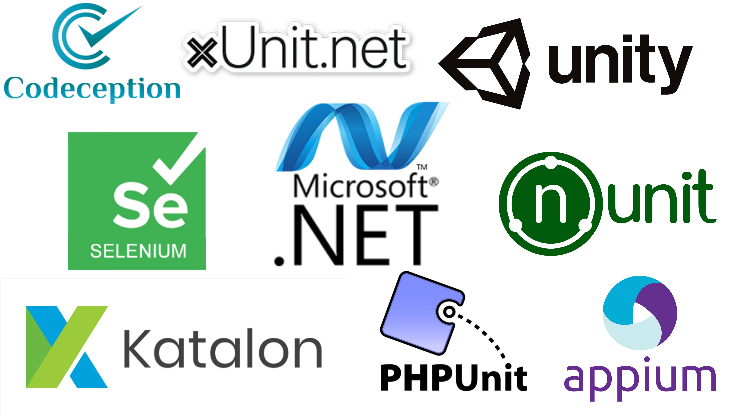
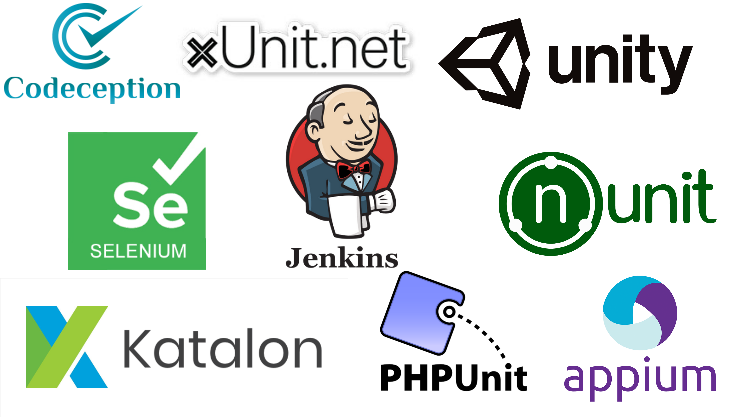
Завершена работа по изменению сайта

Changed region(s): [[0.3735, 0.1857, 0.6225, 0.65]]

diff --git a/index.html b/index.html
@@ -31,8 +31,7 @@
 			<div id="title">Somov Studio</div>
 			<div id="logo"><img src="./img/logo.png" alt="logo" class="logo-rotate"></div>
 			<div id="info">
-				Тестирование программного обеспечения любой сложности.
-				<br>Автоматизированное тестирование.
+				Автоматизированное тестирование программного обеспечения любой сложности.
 			</div>
 		</div>
 	</header>
@@ -44,12 +43,14 @@
 			<div id="about">
 				<h2 class="line">О компании</h2>
 				<p>
-					Наша компания занимается оказанием услуг в облати тестирования программного обеспечения любой сложности. В работе применяется автоматизированное и ручное тестирование. Тестирование 2D и 3D приложений разработанных под мобильные устройства iOS и Android, а так же desktop и browser версии.
+					Наша компания занимается оказанием услуг в облати тестирования программного обеспечения любой сложности. Мы занимаемся разработкой автоматизированного тестирования: 2D и 3D приложений разработанных под мобильные устройства iOS и Android, Web приложений, Native приложений и desktop приложений.
 					<br><br>
 					Разработка и развертывание средств автоматизированного тестирования.
 					<br>Основные подходы к автоматизации тестирования: 
 					<br>Тестирование на уровне кода (модульное тестирование) и тестирование пользовательского интерфейса (в частности, GUI-тестирование).
 					<br>Имитация действий пользователя - функциональное тестирование (с помощью специальных тестовых фреймворков.)
+					<br><br>
+					Автоматизация процессов тестирования является неотъемлемой частью разработки любого программного обеспечения. Автоматизация позволяет сократить время и вероятность пропущенных ошибок в регресс-тестировании.
 				</p>
 				<div class="button-more-right">
 					<a href="about.html">ПОДРОБНЕЕ >></a>
@@ -78,19 +79,20 @@
 				<ul class="services-list">
 					<li>Тестирование баз данных</li>
 					<li>Тестирование Web приложений</li>
-					<li>Тестирование корпоративных решений</li>
+					<li>Тестирование desktop приложений</li>
 					<li>Тестирование клиент-серверных приложений</li>
 					<li>Тестирование мобильных 2D/3D приложений под iOS и Android</li>
 				</ul>
 				<p>Разработка и сопровождение автоматизированного тестирования:</p>
 				<ul class="services-list">
-					<li>Автоматизированное тестирование Web-приложения</li>
-					<li>Автоматизированное тестирование Native-приложений</li>
-					<li>Автоматизированное тестирование Desktop-приложений</li>
+					<li>Автоматизированное тестирование Web приложения</li>
+					<li>Автоматизированное тестирование Native приложений</li>
+					<li>Автоматизированное тестирование Desktop приложений</li>
+					<li>Автоматизированное тестирование Unity3D приложений</li>
 					<li>Выполнение модульное тестирование на уровне программного кода</li>
 				</ul>
 				<br>
-				<p style="font-size: small;">* Более подробная информация о расценках и сроках выполнения работ с мотрите в разделе "подробнее"</p>
+				<p style="font-size: small;">* Более подробная информация о расценках и сроках выполнения работ смотрите в разделе "подробнее"</p>
 				<div class="button-more-right">
 					<a href="services.html">ПОДРОБНЕЕ >></a>
 				</div>
@@ -105,15 +107,23 @@
 			<div id="technology">
 				<h2 class="line">Технологии</h2>
 				<p>
-				В тестировании используются следующие технологии автоматизации: Codeception, Selenium, Katalon Studio, Unity Test Runner, Appium.
-				<br><br>
-				Выполнение модульного тестирования средствами: XUnit, NUnit, JUnit, PHPUnit.
-				</p>
-				<br>
-				<p>
-				В разработке клиент-серверного программного обеспечения используется .NET Framework одну из самых передовых технологии от корпорации Microsoft, и система управления реляционными базами данных Microsoft SQL Server.
-				<br><br>
-				В разработке web-приложений используется технология Apache, PHP и система управления реляционными базами данных MySQL.
+					Автоматизированное тестирование Web приложений выполняется технологией <a href="https://www.seleniumhq.org/" target="_blank">Selenium</a>. 
+					Разработка автоматизированных тестов осуществляется с помощью фреймворка <a href="https://codeception.com" target="_blank">Codeception</a> или <a href="https://www.katalon.com/" target="_blank">Katalon Studio</a>.
+					<br><br>
+					Автоматизированное тестирование Native приложений выполняется технологией <a href="http://appium.io/" target="_blank">Appium</a>. 
+					Разработка автоматизированных тестов осуществляется с помощью <a href="https://www.katalon.com/" target="_blank">Katalon Studio</a>.
+					<br><br>
+					Автоматизированное тестирование Unity3D приложений разрабатывается и выполняется непосредственно в среде <a href="https://unity.com/ru" target="_blank">Unity</a> с помощью встроенной технологии Test Runner.
+					<br><br>
+					Автоматизированное тестирование Desktop приложений выполняется с помощью <a href="https://github.com/Microsoft/WinAppDriver" target="_blank">WinAppDriver</a>.
+					<br><br>
+					Выполнение модульного тестирования средствами: 
+					<a href="https://xunit.net/" target="_blank">XUnit</a>, 
+					<a href="https://nunit.org/" target="_blank">NUnit</a>, 
+					<a href="https://junit.org/junit5/" target="_blank">JUnit</a>, 
+					<a href="https://phpunit.de/" target="_blank">PHPUnit</a>.
+					<br><br>
+					Для непрерывной работы автоматизированных тестов используется программная система <a href="https://jenkins.io/" target="_blank">Jenkins</a>
 				</p>
 				<div class="button-more-right">
 					<a href="technology.html">ПОДРОБНЕЕ >></a>
@@ -142,9 +152,11 @@
 				В данном разделе вы можете скачать совершенно бесплатно разработанное нами следующее программное обеспечение:
 				</p>
 				<ul class="services-list">
-					<li>FastADB - программа позволяет работать с Android Debug Bridge более удобно и быстрее (необходимый инструмент при тестировании android приложений)</li><br>
-					<li>Json File Editor - программа предназначена для редактирования json файлов.</li><br>
+					<li>FastADB - программа позволяет работать с Android Debug Bridge более удобно и быстрее (необходимый инструмент при тестировании android приложений)</li>
+					<li>Json File Editor - программа предназначена для редактирования json файлов.</li>
 					<li>Admin Database Framework - фреймворк (платформа) позволяет создать администратор баз данных для Веб-приложения на основе Apache, MySQL</li>
+					<li>Агрегатор - программа поможет в работе над большим количеством прайс-листов с дальнейшим составлением плана закупок, формированием и отправкой заказов поставщикам</li>
+					<li>Rapid Sales - небольшая бухгалтерская программа предназначена для учета продаж товаров со склада</li>
 				</ul>
 				<br>
 				<p style="font-size: small;">* Данные программные средства находятся в открытом доступе по лицензии GNU и вы можете с ними ознакомиться пройдя в раздел "подробнее"</p>
@@ -190,7 +202,6 @@
 					<li><a href="index.html#services">Услуги</a></li>
 					<li><a href="index.html#technology">Технологии</a></li>
 					<li><a href="index.html#download">Скачать</a></li>
-					<li><a href="index.html#developments">Разработки</a></li>
 					<li><a href="index.html#contacts">Контакты</a></li>
 				</ul>
 			</div>

diff --git a/download.html b/download.html
@@ -22,7 +22,6 @@
 				<li><a href="index.html#services">Услуги</a></li>
 				<li><a href="index.html#technology">Технологии</a></li>
 				<li><a href="index.html#download">Скачать</a></li>
-				<li><a href="index.html#developments">Разработки</a></li>
 				<li><a href="index.html#contacts">Контакты</a></li>
 			</ul>
 		</div>
@@ -69,11 +68,6 @@
 			</p>
 			<br>
 			Архив приложения "FastADB"
-			<!--
-			<form action="./download/utilities/fastadb/FastADB-v.2.0.zip">
-				<input type="submit" value="Скачать" class="button">
-			</form>
-			-->
 			<form action="https://github.com/SomovStudio/FastADB2/archive/2.0.zip">
 				<input type="submit" value="Скачать" class="button">
 			</form>
@@ -162,6 +156,86 @@
 
 	<div class="section-clear"></div>
 
+	<section class="section-white"><br><br>
+		<div class="section-content-left">
+			<h2 class="line">Программа: "Агрегатор"</h2>
+			<div class="content-image-soft">
+				<img src="./img/aggregator.png">
+			</div>
+			<p style="font-size: small;">
+				Системные требования: Windows, Microsoft SQL Server (если приложение использует серверную базу данных)
+			</p>
+		</div>
+		<div class="section-content-right">
+			<p>
+			Программное решение "Агрегатор" поможет вам в работе над большим количеством прайс-листов с дальнейшим составлением плана закупок, формированием и отправкой заказов поставщикам.
+			</p>
+			<br>
+			Приложениию "Агрегатор" на GitHub
+			<form action="https://github.com/SomovStudio/Aggregator" target="_blank">
+				<input type="submit" value="Перейти" class="button">
+			</form>
+			<br>
+			Установщик программы "Агрегатор"
+			<form action="./download/aggregator/Setup.zip">
+				<input type="submit" value="Скачать" class="button">
+			</form>
+			Архив программы "Агрегатор"
+			<form action="./download/aggregator/Aggregator.zip">
+				<input type="submit" value="Скачать" class="button">
+			</form>
+			Руководство к программе "Агрегатор" в формате PDF
+			<form action="./download/aggregator/help.pdf">
+				<input type="submit" value="Скачать" class="button">
+			</form>
+			Руководство к программе "Агрегатор" в формате CHM
+			<form action="./download/aggregator/help.chm">
+				<input type="submit" value="Скачать" class="button">
+			</form>	
+			<br>
+			<p>Видеоуроки с подробным объяснением о том как работать с данной программой смотрите в разделе видеоуроки.</p>
+			<form action="aggregator.html">
+				<input type="submit" value="Видеоуроки" class="button">
+			</form>
+		</div>	
+	</section>
+
+	<div class="section-clear"></div>
+
+	<section class="section-white">
+		<br><br>
+		<div class="section-content-left">
+			<h2 class="line">Программа: "Rapid Sales"</h2>
+			<div class="content-image-soft">
+				<img src="./img/rapid.png">
+				
+			</div>
+			<p style="font-size: small;">
+				Системные требования: 
+				Windows, Microsoft SQL Server
+			</p>
+		</div>
+		<div class="section-content-right">
+			<p>
+				Бухгалтерская программа "Rapid Sales" предназначена для учета продаж товаров со склада. 
+				Учет ведется по нескольким направлениям: бухгалтерский учет и складской учет.
+				Так же в программе доступно формирование отчетов, таких как остатки ТМЦ, оборотно сальдовая ведомость по счету, по контрагентам, по торговым представителям.
+			</p>
+			<br>
+			Приложениию "Rapid Sales" на GitHub
+			<form action="https://github.com/SomovStudio/RapidSales" target="_blank">
+				<input type="submit" value="Перейти" class="button">
+			</form>
+			<br>
+			Архив приложения "Rapid Sales"
+			<form action="https://github.com/SomovStudio/RapidSales/archive/1.0.zip">
+				<input type="submit" value="Скачать" class="button">
+			</form>
+		</div>
+	</section>
+
+	<div class="section-clear"></div>
+
 	<!-- FOOTER -->
 	<footer>
 		<div class="footer-social">
@@ -192,7 +266,7 @@
 		<section id="information">
 			<div id="information_footer">
 				<h2>Деятельность</h2>
-				<p>Наша компания занимается тестированием и разработкой програмного обеспечания, а так же проектированием баз данных и разработкой программных средств ориентированных на упрощенную работу с данными.</p>
+				<p>Разработка автоматизированного тестирования программного обеспечения любой сложности.</p>
 			</div>
 			<div id="contacts_footer">
 				<h2>Контакты</h2>

diff --git a/technology.html b/technology.html
@@ -22,7 +22,6 @@
 				<li><a href="index.html#services">Услуги</a></li>
 				<li><a href="index.html#technology">Технологии</a></li>
 				<li><a href="index.html#download">Скачать</a></li>
-				<li><a href="index.html#developments">Разработки</a></li>
 				<li><a href="index.html#contacts">Контакты</a></li>
 			</ul>
 		</div>
@@ -44,8 +43,25 @@
 		<div id="description">
 			<h2 class="line">Технологии</h2>
 			<p>
-				В Тестировании и разработке программного обеспечения мы используем самые передовых технологии.
-			</p>
+					Автоматизированное тестирование Web приложений выполняется технологией <a href="https://www.seleniumhq.org/" target="_blank">Selenium</a>. 
+					Разработка автоматизированных тестов осуществляется с помощью фреймворка <a href="https://codeception.com" target="_blank">Codeception</a> или <a href="https://www.katalon.com/" target="_blank">Katalon Studio</a>.
+					<br>
+					Автоматизированное тестирование Native приложений выполняется технологией <a href="http://appium.io/" target="_blank">Appium</a>. 
+					Разработка автоматизированных тестов осуществляется с помощью <a href="https://www.katalon.com/" target="_blank">Katalon Studio</a>.
+					<br>
+					Автоматизированное тестирование Unity3D приложений разрабатывается и выполняется непосредственно в среде <a href="https://unity.com/ru" target="_blank">Unity</a> с помощью встроенной технологии Test Runner.
+					<br>
+					Автоматизированное тестирование Desktop приложений выполняется с помощью <a href="https://github.com/Microsoft/WinAppDriver" target="_blank">WinAppDriver</a>.
+					<br>
+					Выполнение модульного тестирования средствами: 
+					<a href="https://xunit.net/" target="_blank">XUnit</a>, 
+					<a href="https://nunit.org/" target="_blank">NUnit</a>, 
+					<a href="https://junit.org/junit5/" target="_blank">JUnit</a>, 
+					<a href="https://phpunit.de/" target="_blank">PHPUnit</a>.
+					<br>
+					Для непрерывной работы автоматизированных тестов используется программная система <a href="https://jenkins.io/" target="_blank">Jenkins</a>
+					<br><br>
+				</p>
 		</div>
 	</section>
 
@@ -72,9 +88,7 @@
 				<br><br>
 				XUnit, NUnit, JUnit, PHPUnit — выполнение модульного тестирования.
 				<br><br>
-				</p>
-				<p>
-				В разработке программного обеспечения мы используем .NET Framework и SQl Server, a так же технологий Apache, PHP, MySQL.
+				Jenkins - программная система с открытым исходным кодом на Java, предназначенная для обеспечения процесса непрерывной интеграции программного обеспечения.
 				</p>
 			</p>
 		</div>
@@ -112,7 +126,7 @@
 		<section id="information">
 			<div id="information_footer">
 				<h2>Деятельность</h2>
-				<p>Наша компания занимается тестированием и разработкой програмного обеспечания, а так же проектированием баз данных и разработкой программных средств ориентированных на упрощенную работу с данными.</p>
+				<p>Разработка автоматизированного тестирования программного обеспечения любой сложности.</p>
 			</div>
 			<div id="contacts_footer">
 				<h2>Контакты</h2>

diff --git a/services.html b/services.html
@@ -22,7 +22,6 @@
 				<li><a href="index.html#services">Услуги</a></li>
 				<li><a href="index.html#technology">Технологии</a></li>
 				<li><a href="index.html#download">Скачать</a></li>
-				<li><a href="index.html#developments">Разработки</a></li>
 				<li><a href="index.html#contacts">Контакты</a></li>
 			</ul>
 		</div>
@@ -44,7 +43,8 @@
 		<div id="description">
 			<h2 class="line">Услуги</h2>
 			<p>
-				Мы предлагаем свои услуги в тестировании и разработке автоматизированных тестов любой сложности. В работе мы используем самые передовые технологии.
+				Мы предлагаем свои услуги в разработке автоматизированных тестов любой сложности. 
+				<br>В работе мы используем самые передовые <a href="technology.html">технологии</a> такие как Selenium, Codeception, Appium, Katalon Studio, Unity test Runner и другие.
 			</p>
 		</div>
 	</section>
@@ -59,7 +59,7 @@
 			<ul class="services-list">
 				<li>Тестирование баз данных</li>
 				<li>Тестирование Web приложений</li>
-				<li>Тестирование корпоративных решений</li>
+				<li>Тестирование desktop приложений</li>
 				<li>Тестирование клиент-серверных приложений</li>
 				<li>Тестирование мобильных 2D/3D приложений под iOS и Android</li>
 			</ul>
@@ -72,6 +72,7 @@
 				<li>Автоматизированное тестирование Web-приложения</li>
 				<li>Автоматизированное тестирование Native-приложений</li>
 				<li>Автоматизированное тестирование Desktop-приложений</li>
+				<li>Автоматизированное тестирование Unity3D приложений</li>
 				<li>Выполнение модульное тестирование на уровне программного кода</li>
 			</ul>
 			<br><br><br><br>
@@ -122,7 +123,7 @@
 		<section id="information">
 			<div id="information_footer">
 				<h2>Деятельность</h2>
-				<p>Наша компания занимается тестированием и разработкой програмного обеспечания, а так же проектированием баз данных и разработкой программных средств ориентированных на упрощенную работу с данными.</p>
+				<p>Разработка автоматизированного тестирования программного обеспечения любой сложности.</p>
 			</div>
 			<div id="contacts_footer">
 				<h2>Контакты</h2>

diff --git a/about.html b/about.html
@@ -43,7 +43,7 @@
 		<div id="description">
 			<h2 class="line">О компании</h2>
 			<p>
-				Наша компания занимается оказанием услуг в облати тестирования программного обеспечения любой сложности. В работе применяется автоматизированное и ручное тестирование. Тестирование 2D и 3D приложений разработанных под мобильные устройства iOS и Android, а так же desktop и browser версии.
+				Наша компания занимается оказанием услуг в облати тестирования программного обеспечения любой сложности. В работе применяется автоматизированное и ручное тестирование. Тестирование 2D и 3D приложений разработанных под мобильные устройства iOS и Android, а так же тестирование desktop и Web приложений.
 				<br><br>
 				Разработка и развертывание средств автоматизированного тестирования.
 				<br>Основные подходы к автоматизации тестирования: 
@@ -96,7 +96,7 @@
 		<section id="information">
 			<div id="information_footer">
 				<h2>Деятельность</h2>
-				<p>Наша компания занимается тестированием и разработкой програмного обеспечания, а так же проектированием баз данных и разработкой программных средств ориентированных на упрощенную работу с данными.</p>
+				<p>Разработка автоматизированного тестирования программного обеспечения любой сложности.</p>
 			</div>
 			<div id="contacts_footer">
 				<h2>Контакты</h2>

diff --git a/aggregator.html b/aggregator.html
@@ -22,7 +22,6 @@
 				<li><a href="index.html#services">Услуги</a></li>
 				<li><a href="index.html#technology">Технологии</a></li>
 				<li><a href="index.html#download">Скачать</a></li>
-				<li><a href="index.html#developments">Разработки</a></li>
 				<li><a href="index.html#contacts">Контакты</a></li>
 			</ul>
 		</div>
@@ -221,7 +220,7 @@
 		<section id="information">
 			<div id="information_footer">
 				<h2>Деятельность</h2>
-				<p>Наша компания занимается тестированием и разработкой програмного обеспечания, а так же проектированием баз данных и разработкой программных средств ориентированных на упрощенную работу с данными.</p>
+				<p>Разработка автоматизированного тестирования программного обеспечения любой сложности.</p>
 			</div>
 			<div id="contacts_footer">
 				<h2>Контакты</h2>
